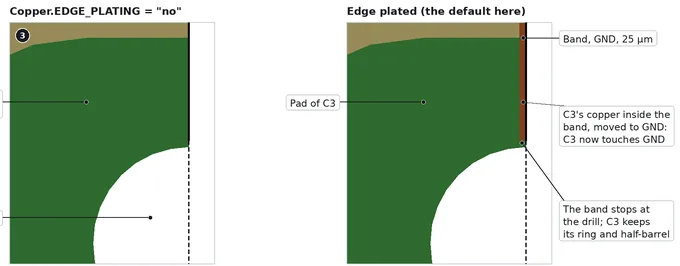
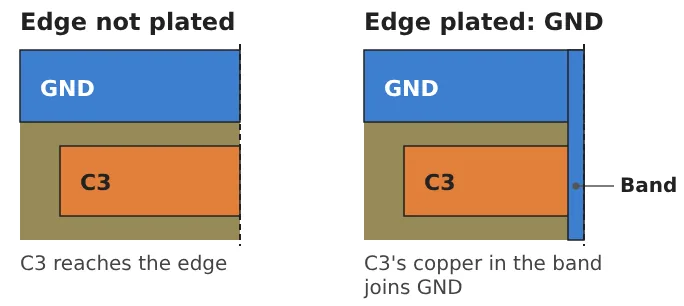
WebUI tips: 19 pictures drawn for the tip; fixes from the first tips sweep
- 19 tip pictures are now simple drawings, where the wiki picture's text or colours
  were too small to read at tip size: the silkscreen and mask colours, the stack-up,
  Etch Factor, Orientation, Origin, the two modes, Copper and Dielectric Grouping,
  Outer Plating Added, Via Wall, Castellation, Edge Plating and its net, Finish
  Enabled, Silk Thickness, Interline Pitch, Text Stroke Quad Segs and Outline Line
  Snap. Their SVG sources are in docs/tooltipsPictures/drawn/; captions, widths and
  heights are updated in tips.json.
- A part's tip showed "Copper_GND" as the title of every part: it names the part.
- Long board and file names wrap inside a tip instead of sticking out of it.
- The Reset tip of a table setting leaves out the value instead of showing JSON.
- tips.json is fetched without a stale cache, so a deploy shows its words at once.
- Tests: after a run, the tips of a part, a file and Download Zip name them; without
  tips.json, every tip falls back to its plain words.

diff --git a/WebUI/WebUI.js b/WebUI/WebUI.js
@@ -188,7 +188,7 @@ const stem = (name) => name.replace(/\.[^.]+$/, "");
 // key, with its title, unit, file value and wiki link taken from the parameter.  data-tip keeps one plain line, shown
 // while tips.json loads, if it fails, or for a tip it does not have; a setting it does not have shows its comment.
 let TIPS = {};
-fetch(new URL("tips.json", import.meta.url)).then((r) => (r.ok ? r.json() : {})).then((j) => { TIPS = j || {}; }).catch(() => {});
+fetch(new URL("tips.json", import.meta.url), { cache: "no-cache" }).then((r) => (r.ok ? r.json() : {})).then((j) => { TIPS = j || {}; }).catch(() => {});
 const tipAttrs = (id, text, args) => ({ "data-tip": text, "data-tip-id": id, "data-tip-args": args ? JSON.stringify(args) : null });
 function setTip(node, id, text, args) {
   node.dataset.tip = text; node.dataset.tipId = id;
@@ -280,6 +280,7 @@ function tipCard(c, args) {
   }
   return out;
 }
+const isTable = (v) => !!v && typeof v === "object" && !Array.isArray(v);   // a table has no one-line value: its tip leaves the line out
 function showValue(v) {
   if (v === null || v === undefined) return "None";
   if (typeof v === "boolean") return v ? "True" : "False";
@@ -674,7 +675,7 @@ function field(p) {
   const head = el("div", { class: "field-head" }, el("span", { class: "field-label", id: labelId }, text, unit ? el("span", { class: "unit" }, ` (${unit})`) : null));
   attachHelp(head, p.key);
   if (state.ui === "advanced") {
-    if (changed) head.append(el("button", { type: "button", class: "reset-one", ...tipAttrs("resetOne", `Back to the file's value: ${showValue(p.default)}`, { value: showValue(p.default) }),
+    if (changed) head.append(el("button", { type: "button", class: "reset-one", ...tipAttrs("resetOne", `Back to the file's value: ${showValue(p.default)}`, { value: isTable(p.default) ? "" : showValue(p.default) }),
       onclick: () => {
         state.noneEditing.delete(p.key);
         const back = { [p.key]: clone(p.default) };

diff --git a/WebUI/WebUI.css b/WebUI/WebUI.css
@@ -418,7 +418,7 @@ input[type=range]:focus-visible::-moz-range-thumb { box-shadow: var(--metal-shad
 .tp-eyebrow { display: block; font-size: 10.5px; line-height: 1.3; letter-spacing: 0.07em; text-transform: uppercase; color: var(--accent); font-weight: 650; }
 .popover.rich .tp-eyebrow + .tp-head { margin-top: 3px; }
 .tp-head { display: flex; flex-wrap: wrap; align-items: baseline; gap: 4px 7px; }
-.tp-title { font-size: 14px; font-weight: 650; line-height: 1.3; color: #222; }
+.tp-title { font-size: 14px; font-weight: 650; line-height: 1.3; color: #222; overflow-wrap: anywhere; }   /* a long board or file name */
 .tp-unit { font-size: 11px; font-weight: 600; line-height: 1.6; color: var(--text-2); background: #f1eee9; border-radius: 4px; padding: 0 5px; }
 .tp-badge { font-size: 10.5px; font-weight: 650; line-height: 1.6; color: #7a4b00; background: #fbf0d9; border: 1px solid #efd9a8; border-radius: 999px; padding: 0 7px; }
 .popover .tp-key { margin-bottom: 0; line-height: 1.3; }
@@ -429,7 +429,7 @@ input[type=range]:focus-visible::-moz-range-thumb { box-shadow: var(--metal-shad
 .tp-chip.file { background: var(--accent); border-color: var(--accent); color: #fff; }
 .tp-facts { display: grid; grid-template-columns: max-content 1fr; gap: 2px 10px; margin: 0; font-size: 12px; }
 .tp-facts dt { color: var(--text-3); }
-.tp-facts dd { margin: 0; font-variant-numeric: tabular-nums; }
+.tp-facts dd { margin: 0; font-variant-numeric: tabular-nums; overflow-wrap: anywhere; }
 .tp-table { border-collapse: collapse; width: 100%; font-size: 12px; }
 .tp-table td { padding: 3px 0; border-top: 1px solid #f0ece6; vertical-align: top; }
 .tp-table tr:first-child td { border-top: 0; }

diff --git a/WebUI/CHANGELOG.md b/WebUI/CHANGELOG.md
@@ -56,8 +56,15 @@ The newest first. Each entry is one pull request into `WebUI`; the footer's buil
 - The 46 settings that showed the comment of the setting above them now have their own words.
 - A preset's tip says what it is for and lists what it sets. A section's tip says what is inside and how many settings
   Basic shows.
-- 34 tips show a picture: one panel cut from a wiki picture (`docs/tooltipsPictures`, about 12 KB each), loaded only
-  when the tip opens. `build_site.py` copies them to `tooltips/` and stops if one is missing.
+- 34 pictures in the tips (`docs/tooltipsPictures`, about 12 KB each), each loaded only when its tip opens.
+  `build_site.py` copies them to `tooltips/` and stops if one is missing.
+  - 15 are one panel cut from a wiki picture.
+  - 19 are drawn for the tip, where the wiki picture's labels or colours were too small to read at tip size, each
+    showing the setting's choices side by side where it has them: the silkscreen and mask colours, the stack-up,
+    Etch Factor, Orientation, Origin, the two modes, Copper and Dielectric Grouping, Outer Plating Added, Via Wall,
+    Castellation, Edge Plating and its net, Finish Enabled, Silk Thickness, Interline Pitch, Text Stroke Quad Segs
+    and Outline Line Snap. Their SVG sources are in `drawn/`.
+- Long board and file names wrap inside a tip instead of sticking out of it.
 - Finish Type's layer table says what its rows are: the finish's layers, bottom to top, in mm.
 
 **Tests and documents**
@@ -68,7 +75,7 @@ The newest first. Each entry is one pull request into `WebUI`; the footer's buil
   - the CDN refused, silent or tampered;
   - the CSP;
   - accessibility scans, screenshots;
-  - every setting and button has its tip in `tips.json`, with its picture;
+  - every setting and button has its tip in `tips.json`, with its picture, and every tip falls back to plain words without it;
   - speed budgets and Lighthouse.
 - After each deploy, a smoke test makes a board on the published page.
 - New documents:
